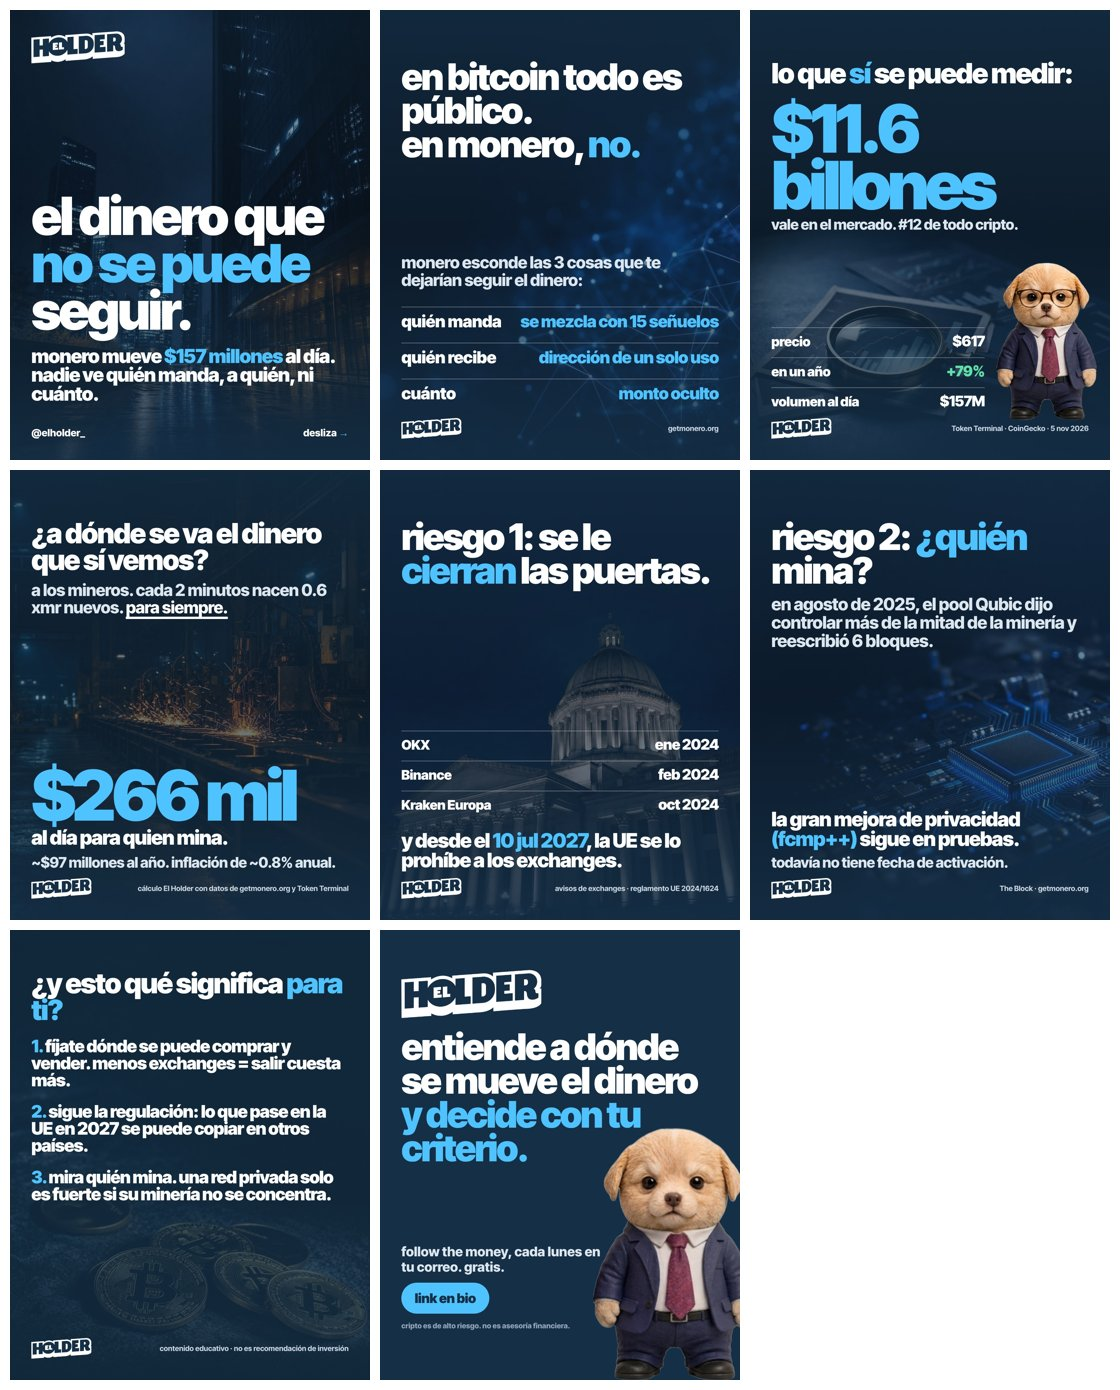
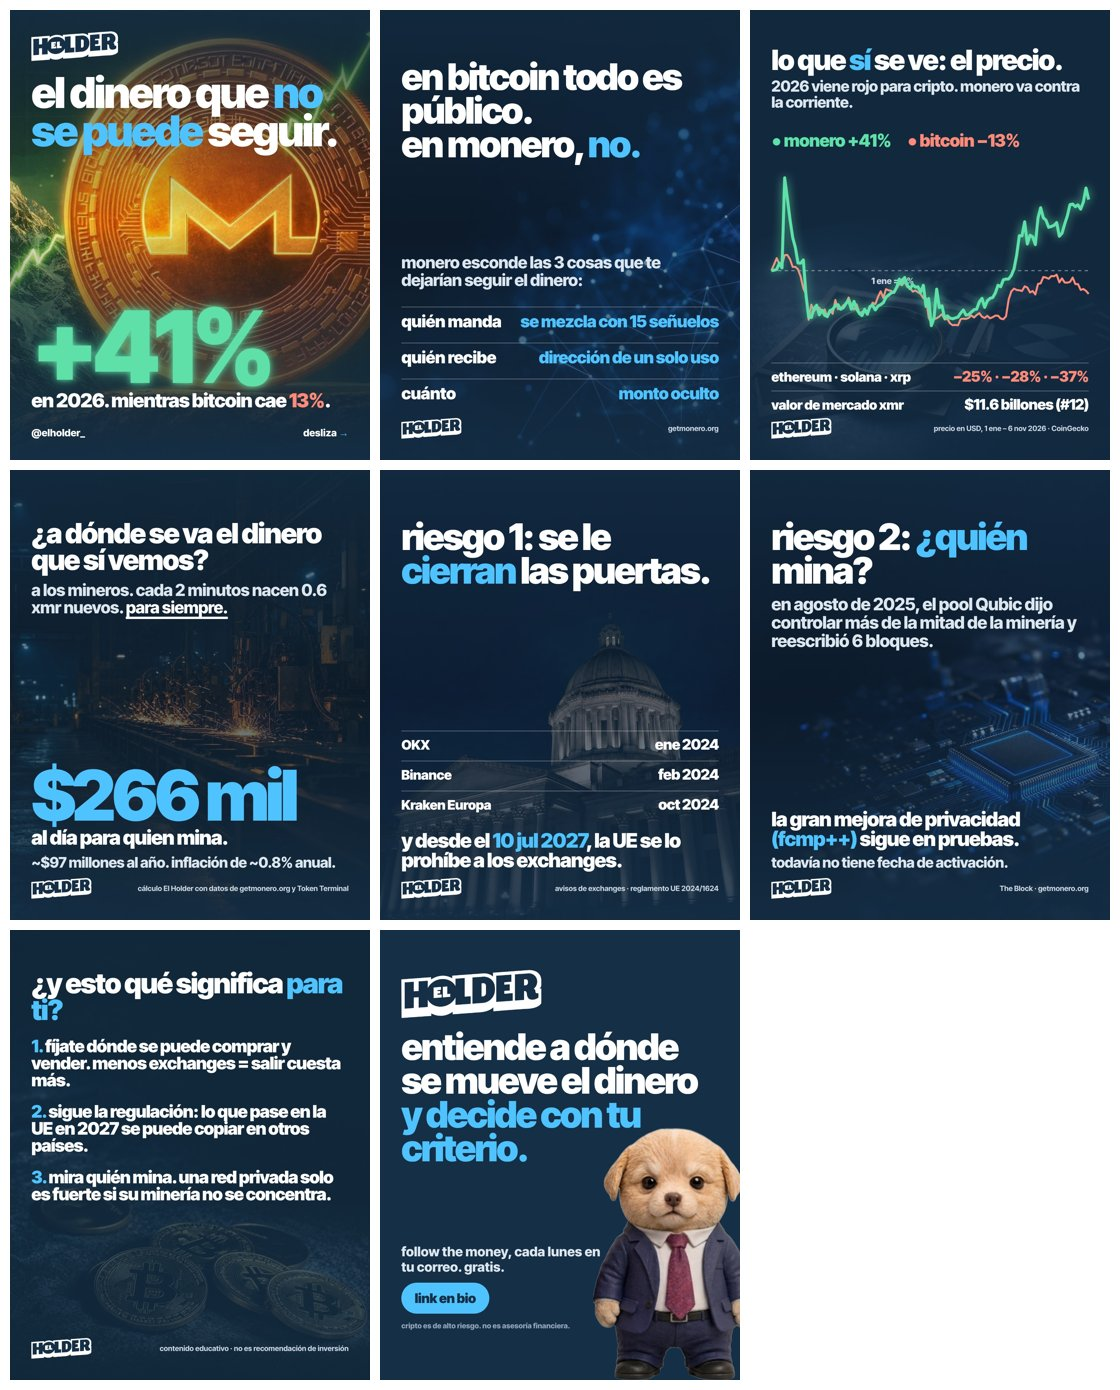
Monero v2: portada dopamínica con imagen de Adrián + slide de precio 2026 (CoinGecko)
Claude-Session: https://claude.ai/code/session_013jLTesaWWS3zyqi3F18NQD

Changed region(s): [[0.0, 0.0, 0.3438, 0.3094], [0.6875, 0.0309, 1.0, 0.3094]]

diff --git a/series/follow-the-money/2026-11-09-monero/carrusel/src/slide-03.html b/series/follow-the-money/2026-11-09-monero/carrusel/src/slide-03.html
@@ -1,17 +1,22 @@
 <!doctype html><html lang="es"><head><meta charset="utf-8"><link rel="stylesheet" href="../../../../../plantilla/base.css"></head><body>
 <div class="slide">
   <div class="bg" style="background-image:url(../../../../../fondos/lupa-datos-01.jpg)"></div>
-  <div class="capa"></div>
-  <div class="arriba" style="gap:10px">
-    <p class="t-l">lo que <span class="acento">sí</span> se puede medir:</p>
-    <div class="cifra" style="font-size:200px;margin-top:30px">$11.6 billones</div>
-    <p class="t-s">vale en el mercado. #12 de todo cripto.</p>
+  <div class="capa" style="background:rgba(21,47,70,.86)"></div>
+  <div class="arriba" style="top:110px;gap:14px">
+    <h2 class="t-l">lo que <span class="acento">sí</span> se ve: el precio.</h2>
+    <p class="t-s" style="font-size:46px">2026 viene rojo para cripto. monero va contra la corriente.</p>
   </div>
-  <img class="mascota" src="../../../../../brand/mascotas/doggy-lentes.png" alt="" style="width:300px;bottom:120px">
-  <div class="abajo angosto" style="gap:22px">
-    <div class="fila"><span class="n">precio</span><span class="v">$617</span></div>
-    <div class="fila"><span class="n">en un año</span><span class="v verde">+79%</span></div>
-    <div class="fila"><span class="n">volumen al día</span><span class="v">$157M</span></div>
+  <div style="position:absolute;left:64px;top:360px;display:flex;gap:48px;font-weight:900;font-size:52px;letter-spacing:-.03em">
+    <span style="color:#5EE0A8">● monero +41%</span><span style="color:#FF8A7A">● bitcoin −13%</span></div>
+  <div style="position:absolute;left:64px;top:470px"><svg width="952" height="520" viewBox="0 0 952 520" style="overflow:visible">
+<line x1="0" y1="312.0" x2="952" y2="312.0" stroke="rgba(255,255,255,.45)" stroke-width="3" stroke-dasharray="10 10"/>
+<text x="300" y="352.0" fill="#C9D6E2" font-size="26" font-weight="800" font-family="Inter Tight">1 ene = 0%</text>
+<polyline points="0.0,312.0 8.0,294.0 16.0,274.6 24.0,291.5 32.0,295.1 40.0,265.4 48.0,264.8 56.0,277.7 64.0,300.8 72.0,300.4 80.0,308.0 88.0,329.5 96.0,365.0 104.0,382.9 112.0,459.2 120.0,414.0 128.0,433.6 136.0,423.3 144.0,423.1 152.0,437.6 160.0,428.1 168.0,451.5 176.0,431.2 184.0,441.2 192.0,400.0 200.0,427.4 208.0,425.7 216.0,416.2 224.0,409.5 232.0,392.6 240.0,416.7 248.0,428.6 256.0,413.2 264.0,438.1 272.0,436.0 280.0,428.5 288.0,433.7 296.0,424.2 304.0,408.2 312.0,412.4 320.0,390.8 328.0,374.0 336.0,393.5 344.0,367.4 352.0,371.0 360.0,372.6 368.0,379.0 376.0,364.8 384.0,351.6 392.0,355.8 400.0,345.0 408.0,361.2 416.0,362.5 424.0,375.0 432.0,371.5 440.0,376.7 448.0,381.6 456.0,394.7 464.0,395.0 472.0,451.7 480.0,470.0 488.0,457.5 496.0,454.6 504.0,449.6 512.0,442.4 520.0,458.5 528.0,456.4 536.0,469.9 544.0,475.6 552.0,474.8 560.0,475.9 568.0,457.4 576.0,455.9 584.0,456.8 592.0,453.5 600.0,446.1 608.0,452.5 616.0,444.9 624.0,439.6 632.0,450.1 640.0,453.8 648.0,447.6 656.0,454.9 664.0,451.6 672.0,446.8 680.0,446.9 688.0,455.5 696.0,457.7 704.0,449.1 712.0,398.4 720.0,374.3 728.0,365.8 736.0,369.9 744.0,370.9 752.0,373.0 760.0,358.9 768.0,362.4 776.0,377.4 784.0,373.2 792.0,383.2 800.0,351.8 808.0,350.0 816.0,331.0 824.0,332.8 832.0,336.3 840.0,328.2 848.0,328.8 856.0,324.1 864.0,347.0 872.0,335.1 880.0,347.5 888.0,347.9 896.0,345.8 904.0,332.7 912.0,352.2 920.0,352.2 928.0,369.8 936.0,367.1 944.0,372.5 952.0,381.7" fill="none" stroke="#FF8A7A" stroke-width="6" stroke-linejoin="round"/>
+<polyline points="0.0,312.0 8.0,310.8 16.0,308.4 24.0,289.4 32.0,303.6 40.0,33.5 48.0,95.0 56.0,158.2 64.0,212.5 72.0,242.3 80.0,289.1 88.0,289.4 96.0,279.8 104.0,385.1 112.0,451.5 120.0,452.4 128.0,425.3 136.0,415.6 144.0,444.6 152.0,430.8 160.0,445.7 168.0,449.8 176.0,431.6 184.0,428.1 192.0,416.9 200.0,414.1 208.0,427.6 216.0,423.1 224.0,410.3 232.0,401.2 240.0,427.7 248.0,404.3 256.0,426.9 264.0,440.2 272.0,446.8 280.0,427.8 288.0,442.5 296.0,419.4 304.0,416.1 312.0,429.6 320.0,418.3 328.0,413.9 336.0,408.0 344.0,391.8 352.0,385.0 360.0,378.6 368.0,376.7 376.0,361.9 384.0,337.6 392.0,352.4 400.0,332.5 408.0,356.0 416.0,365.9 424.0,354.2 432.0,361.2 440.0,360.6 448.0,376.3 456.0,355.9 464.0,419.3 472.0,395.6 480.0,477.0 488.0,454.6 496.0,367.4 504.0,422.9 512.0,417.5 520.0,454.3 528.0,447.7 536.0,454.4 544.0,456.4 552.0,453.8 560.0,451.2 568.0,439.2 576.0,429.9 584.0,445.5 592.0,443.5 600.0,436.3 608.0,429.2 616.0,427.3 624.0,405.7 632.0,395.1 640.0,422.0 648.0,402.4 656.0,395.1 664.0,392.7 672.0,379.1 680.0,355.7 688.0,360.3 696.0,339.4 704.0,337.2 712.0,336.9 720.0,326.2 728.0,306.9 736.0,265.7 744.0,207.3 752.0,207.6 760.0,165.3 768.0,232.0 776.0,205.9 784.0,210.4 792.0,233.7 800.0,154.0 808.0,123.1 816.0,153.4 824.0,160.8 832.0,181.8 840.0,179.4 848.0,176.1 856.0,167.8 864.0,208.8 872.0,199.8 880.0,172.2 888.0,147.7 896.0,113.8 904.0,112.2 912.0,120.0 920.0,114.6 928.0,127.4 936.0,106.5 944.0,64.1 952.0,98.8" fill="none" stroke="#5EE0A8" stroke-width="9" stroke-linejoin="round" style="filter:drop-shadow(0 0 14px rgba(94,224,168,.8))"/>
+</svg></div>
+  <div class="abajo" style="bottom:140px;gap:16px">
+    <div class="fila"><span class="n">ethereum · solana · xrp</span><span class="v rojo">−25% · −28% · −37%</span></div>
+    <div class="fila"><span class="n">valor de mercado xmr</span><span class="v">$11.6 billones (#12)</span></div>
   </div>
-  <div class="pie"><img src="../../../../../brand/logo-horizontal-transparente.png" alt="El Holder"><span>Token Terminal · CoinGecko · 5 nov 2026</span></div>
+  <div class="pie"><img src="../../../../../brand/logo-horizontal-transparente.png" alt="El Holder"><span>precio en USD, 1 ene – 6 nov 2026 · CoinGecko</span></div>
 </div></body></html>

diff --git a/series/follow-the-money/2026-11-09-monero/carrusel/src/slide-01.html b/series/follow-the-money/2026-11-09-monero/carrusel/src/slide-01.html
@@ -1,12 +1,16 @@
-<!doctype html><html lang="es"><head><meta charset="utf-8"><link rel="stylesheet" href="../../../../../plantilla/base.css"></head><body>
-<!-- PORTADA · Koemmandment 2: interrupción de patrón (+ número específico) -->
+<!doctype html><html lang="es"><head><meta charset="utf-8"><link rel="stylesheet" href="../../../../../plantilla/base.css">
+<style>.neon{color:#5EE0A8;text-shadow:0 0 18px rgba(94,224,168,.9),0 0 48px rgba(94,224,168,.55)}</style></head><body>
+<!-- PORTADA dopamínica · Koemmandment 1: números específicos (+ interrupción de patrón). Fondo: imagen enviada por Adrián -->
 <div class="slide">
-  <div class="bg" style="background-image:url(../../../../../fondos/ciudad-noche-01.jpg)"></div>
-  <div class="capa suave"></div>
-  <div class="top" style="align-items:center"><img src="../../../../../brand/logo-horizontal-transparente.png" alt="El Holder" style="width:280px;height:auto"><span></span></div>
-  <div class="abajo" style="bottom:170px;gap:36px">
-    <h1 class="t-xxl" style="font-size:158px">el dinero que <span class="acento">no se puede</span> seguir.</h1>
-    <p class="t-m" style="font-size:58px">monero mueve <span class="acento">$157 millones</span> al día. nadie ve quién manda, a quién, ni cuánto.</p>
+  <div class="bg" style="background-image:url(../fondos/monero-portada.jpg)"></div>
+  <div style="position:absolute;inset:0;background:linear-gradient(180deg,rgba(21,47,70,.88) 0%,rgba(21,47,70,.35) 30%,rgba(21,47,70,.05) 48%,rgba(21,47,70,.55) 68%,rgba(21,47,70,.95) 100%)"></div>
+  <div class="top" style="align-items:center"><img src="../../../../../brand/logo-horizontal-transparente.png" alt="El Holder" style="width:260px;height:auto"><span></span></div>
+  <div class="arriba" style="top:190px">
+    <h1 class="t-xxl" style="font-size:128px">el dinero que <span class="acento">no se puede</span> seguir.</h1>
+  </div>
+  <div class="abajo" style="bottom:150px;gap:6px">
+    <p class="cifra neon" style="font-size:300px;color:#5EE0A8">+41%</p>
+    <p class="t-m" style="font-size:58px">en 2026. mientras bitcoin cae <span class="rojo">13%</span>.</p>
   </div>
   <div class="pie"><span class="handle">@elholder_</span><span class="handle">desliza <span class="acento">→</span></span></div>
 </div></body></html>
